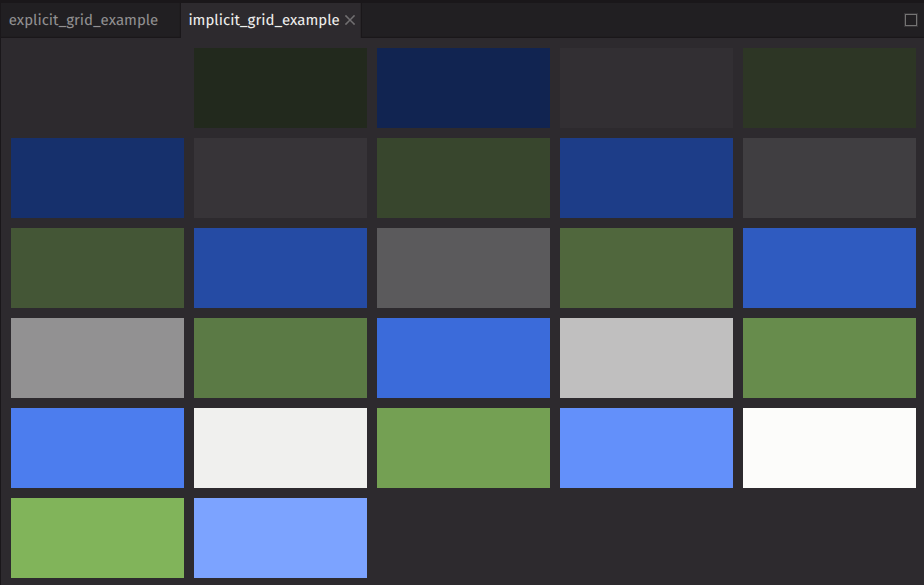
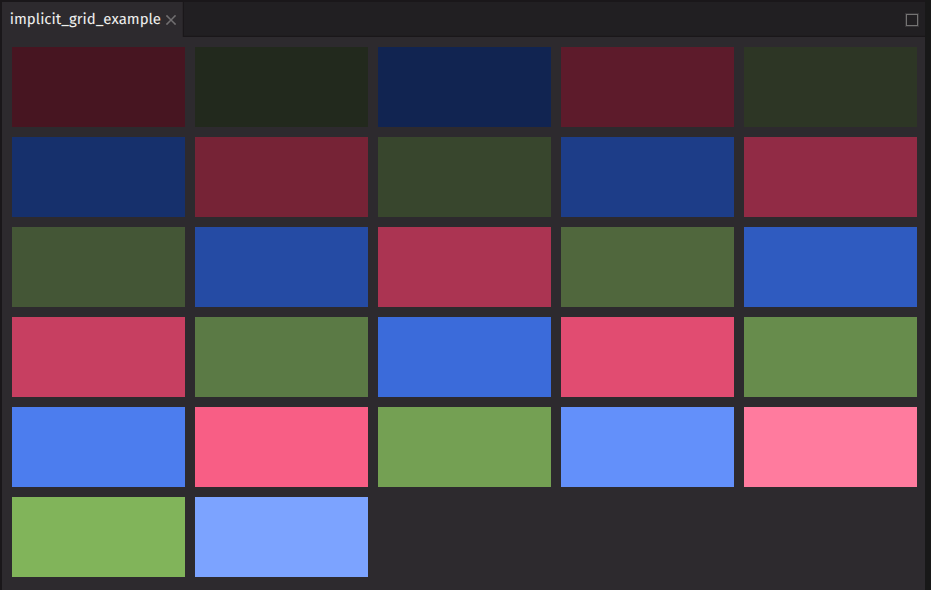
change to red

Changed region(s): [[0.0, 0.0, 1.0, 0.8615], [0.0, 0.9538, 0.3939, 1.0]]

diff --git a/plugins/ui/docs/components/grid.md b/plugins/ui/docs/components/grid.md
@@ -48,7 +48,7 @@ from deephaven import ui
 
 colors = []
 for i in range(100, 901, 100):
-    colors.append(f"gray-{i}")
+    colors.append(f"red-{i}")
     colors.append(f"green-{i}")
     colors.append(f"blue-{i}")
 
